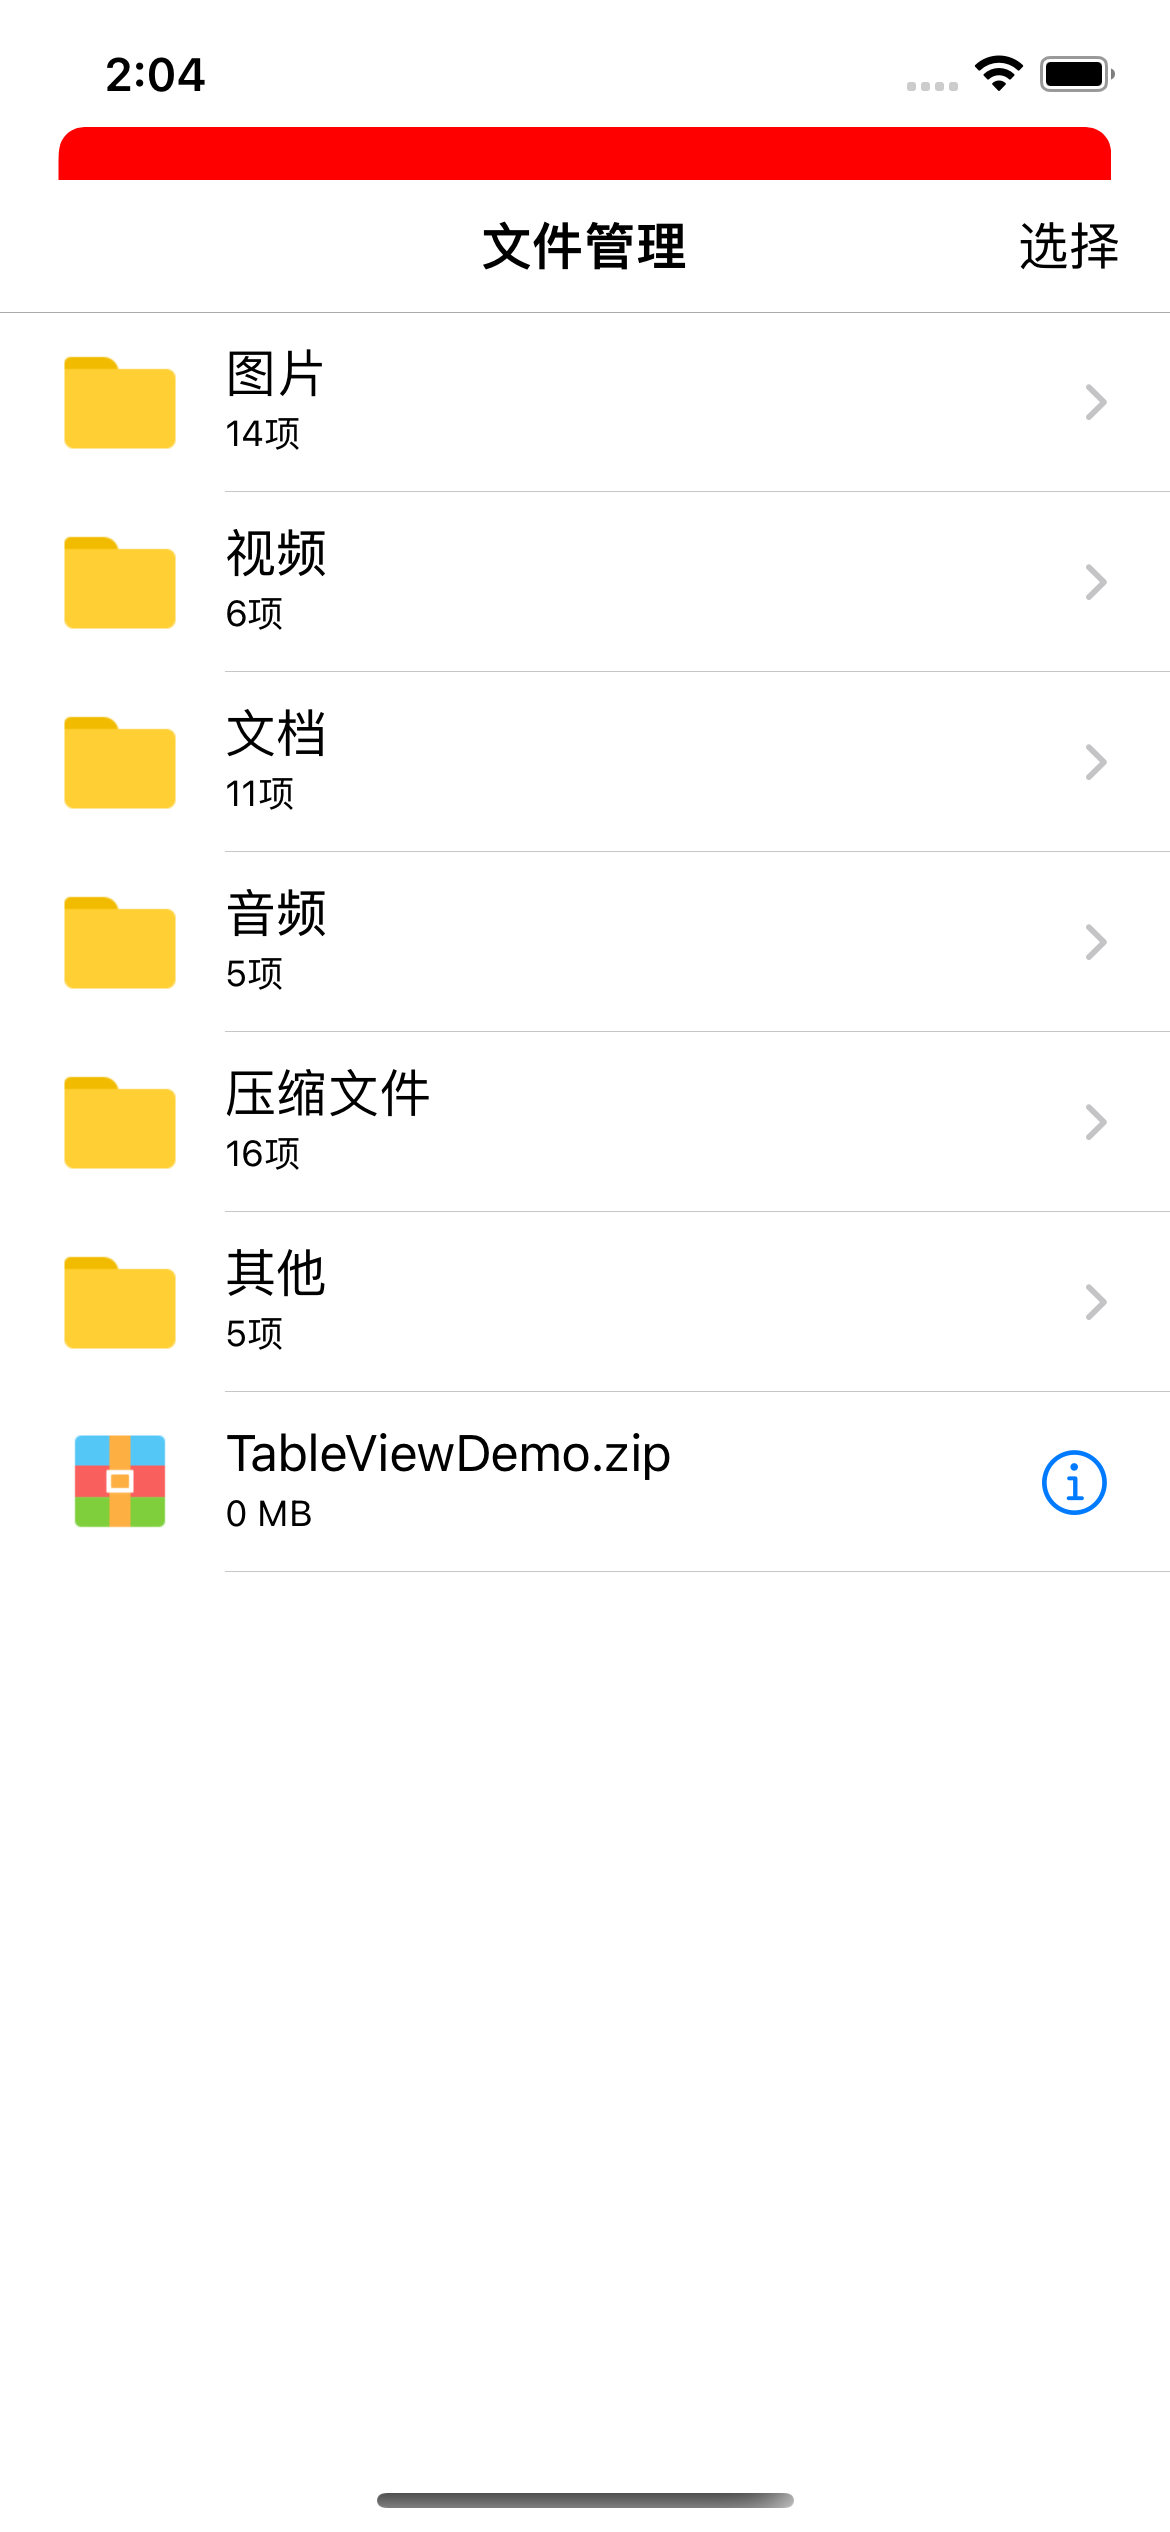
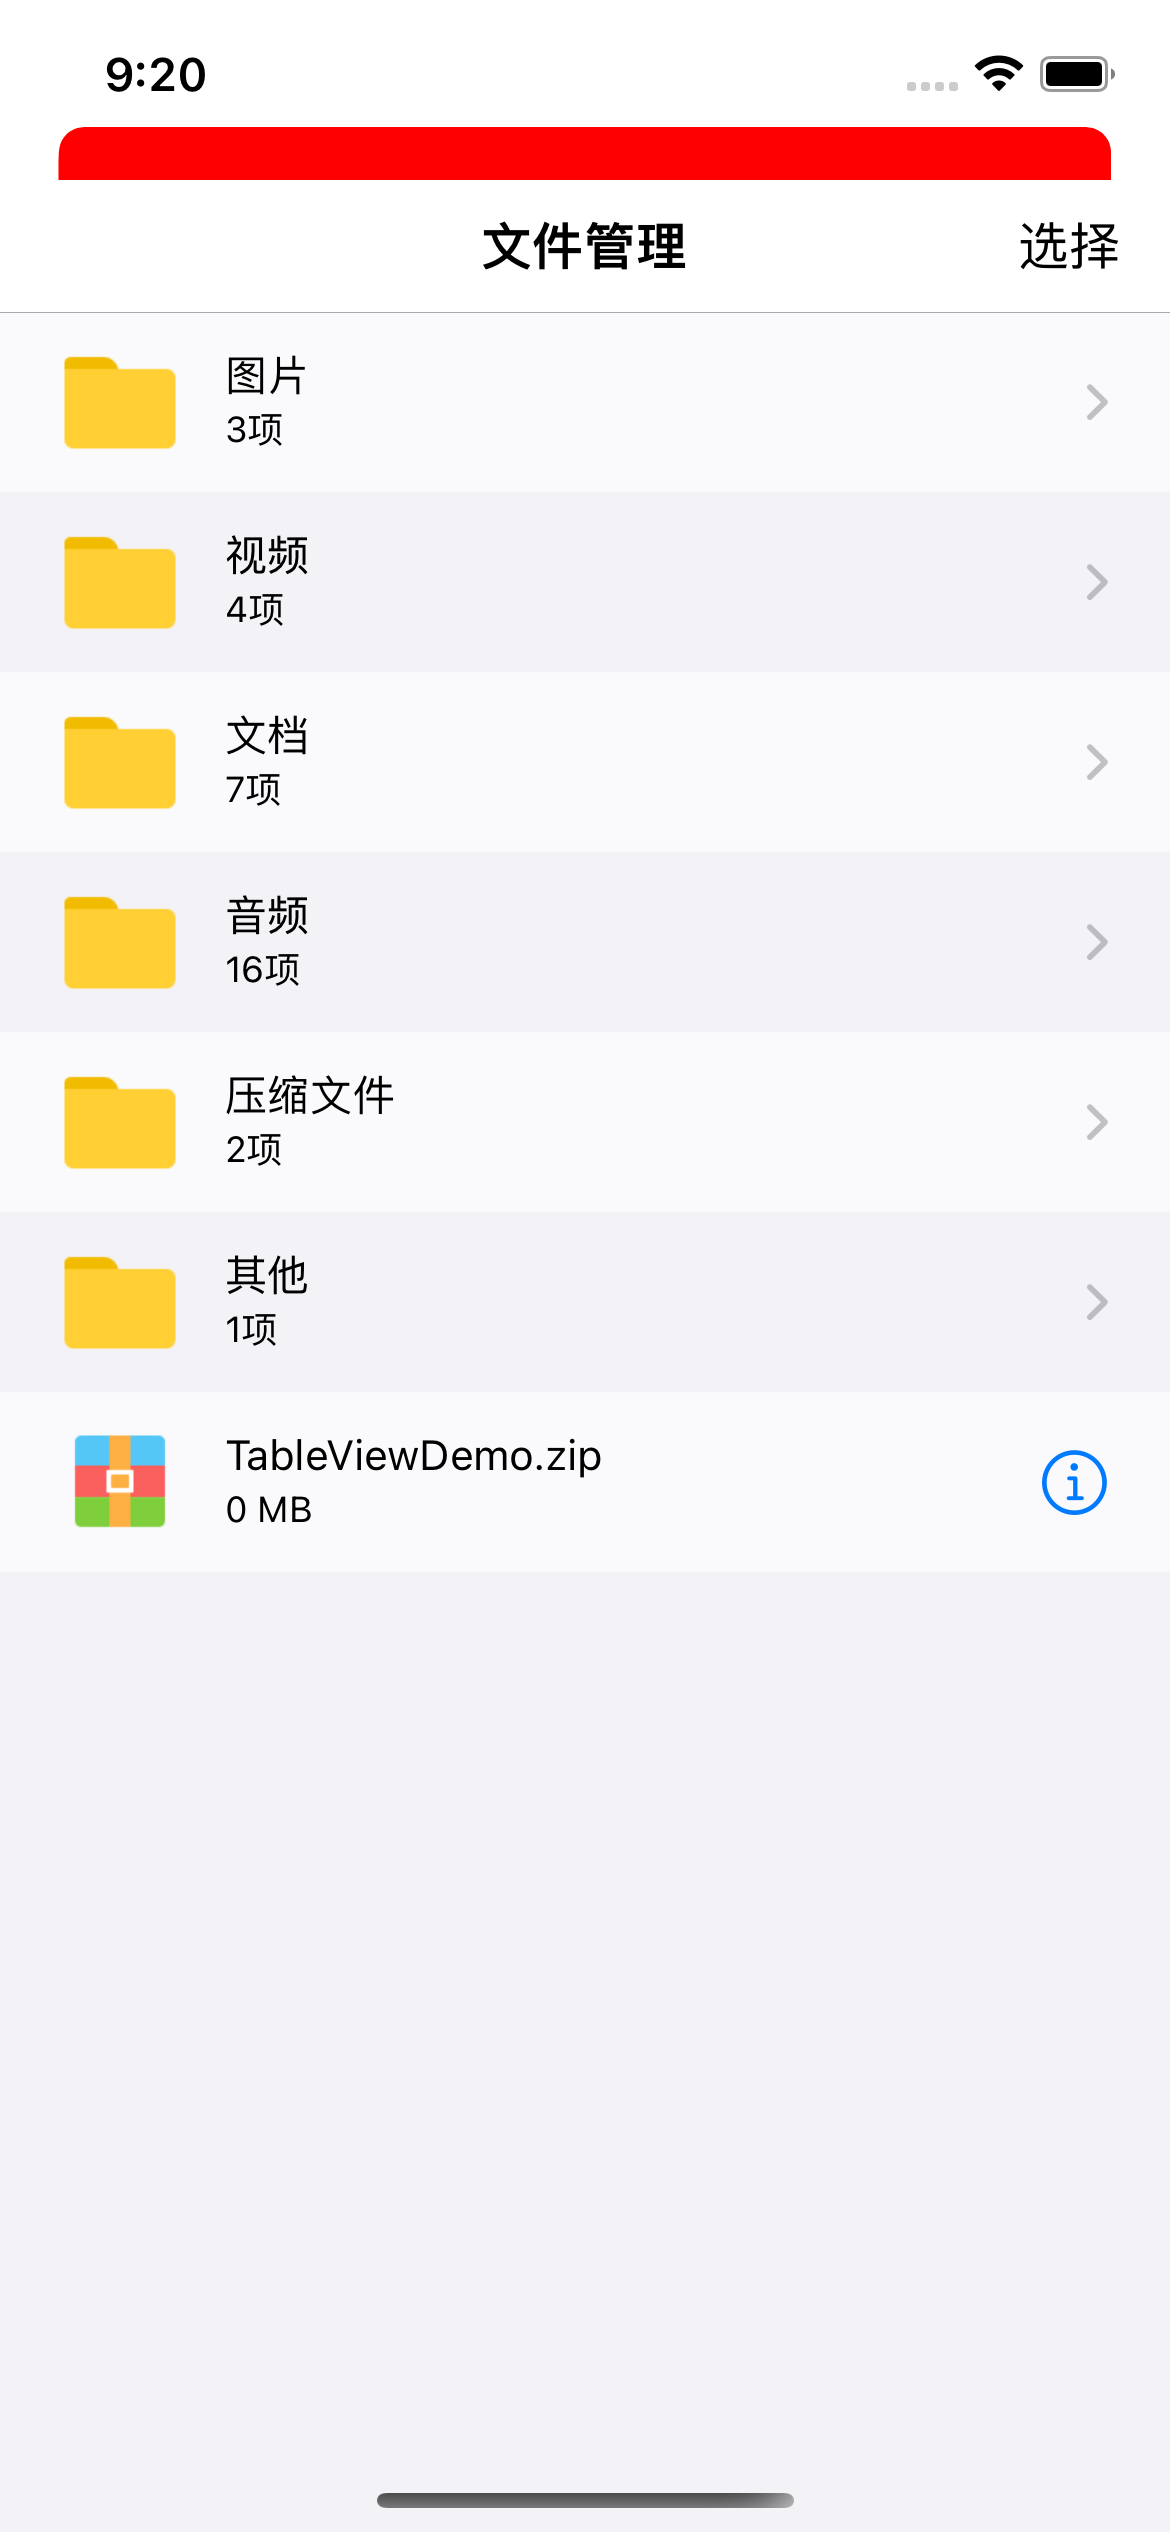
update

diff --git a/Example/ZKFoundation/ZKAppDelegate.m b/Example/ZKFoundation/ZKAppDelegate.m
@@ -29,9 +29,14 @@
 
     UIEdgeInsets edgeInsets = UIEdgeInsetsMake(0, 0, 4, 0);
     UIImage *backImage      = [[UIImage imageNamed:@"barbuttonicon_back"] imageWithAlignmentRectInsets:edgeInsets];
-    [[UINavigationBar appearance] setBackIndicatorImage:backImage];
-    [[UINavigationBar appearance] setBackIndicatorTransitionMaskImage:backImage];
-    [[UINavigationBar appearance] setTintColor:[UIColor whiteColor]];
+    if (@available(iOS 13.0, *)) {
+        UINavigationBarAppearance *appearance = UINavigationBarAppearance.new;
+        [appearance setBackIndicatorImage:backImage transitionMaskImage:backImage];
+    } else {
+        [[UINavigationBar appearance] setBackIndicatorImage:backImage];
+        [[UINavigationBar appearance] setBackIndicatorTransitionMaskImage:backImage];
+        [[UINavigationBar appearance] setTintColor:[UIColor whiteColor]];
+    }
     
 #if DEBUG
     ZKNetworkConsoleLogger<ZKNetworkLoggerProtocol> *testLogger = [ZKNetworkConsoleLogger new];

diff --git a/Example/ZKFoundation/Cells/ZKTableViewCell.m b/Example/ZKFoundation/Cells/ZKTableViewCell.m
@@ -39,6 +39,7 @@
     self = [super initWithStyle:UITableViewCellStyleSubtitle reuseIdentifier:reuseIdentifier];
     if (self == nil) return nil;
     
+    self.textLabel.font = [UIFont systemFontOfSize:14];
     [self setNeedsUpdateConstraints];
     [self updateConstraintsIfNeeded];
     
@@ -49,6 +50,7 @@
 
 - (void)bindViewModel:(id)viewModel forIndexPath:(NSIndexPath *)indexPath {
     // 禁用 sizeThatFits 来计算高度
+    self.backgroundColor = indexPath.row % 2 == 0 ? [[UIColor colorWithRed:1 green:1 blue:1 alpha:0.7] colorWithAlphaComponent:0.6] : [UIColor colorWithRed:0.953 green:0.953 blue:0.967 alpha:1];
 }
 
 #pragma mark - Private Methods

diff --git a/Example/ZKFoundation/ZKCollectionViewController.m b/Example/ZKFoundation/ZKCollectionViewController.m
@@ -63,13 +63,13 @@
 }
 
 - (UIInterfaceOrientationMask)supportedInterfaceOrientations {
-    return UIInterfaceOrientationMaskLandscapeRight;
+    return UIInterfaceOrientationMaskAll;
 }
 
 // 默认方向
-- (UIInterfaceOrientation)preferredInterfaceOrientationForPresentation {
-    return UIInterfaceOrientationLandscapeRight;
-}
+//- (UIInterfaceOrientation)preferredInterfaceOrientationForPresentation {
+//    return UIInterfaceOrientationLandscapeRight;
+//}
 
 - (void)setInterfaceOrientation:(UIInterfaceOrientation)orientation {
 //    if ([[UIDevice currentDevice] respondsToSelector:@selector(setOrientation:)]) {

diff --git a/Example/ZKFoundation/ZKTableViewController.m b/Example/ZKFoundation/ZKTableViewController.m
@@ -111,6 +111,8 @@
 - (UITableView *)tableView {
     if (!_tableView) {
         _tableView = [[UITableView alloc] initWithFrame:CGRectZero style:UITableViewStylePlain];
+        _tableView.backgroundColor =  [UIColor colorWithRed:0.953 green:0.953 blue:0.967 alpha:1];
+        _tableView.separatorStyle = UITableViewCellSeparatorStyleNone;
         _tableView.rowHeight = 60;
     }
     

diff --git a/Example/ZKFoundation/ZKViewController.m b/Example/ZKFoundation/ZKViewController.m
@@ -278,7 +278,7 @@
 }
 
 - (BOOL)shouldAutorotate {
-    return NO;
+    return YES;
 }
 
 - (UIInterfaceOrientationMask)supportedInterfaceOrientations {
